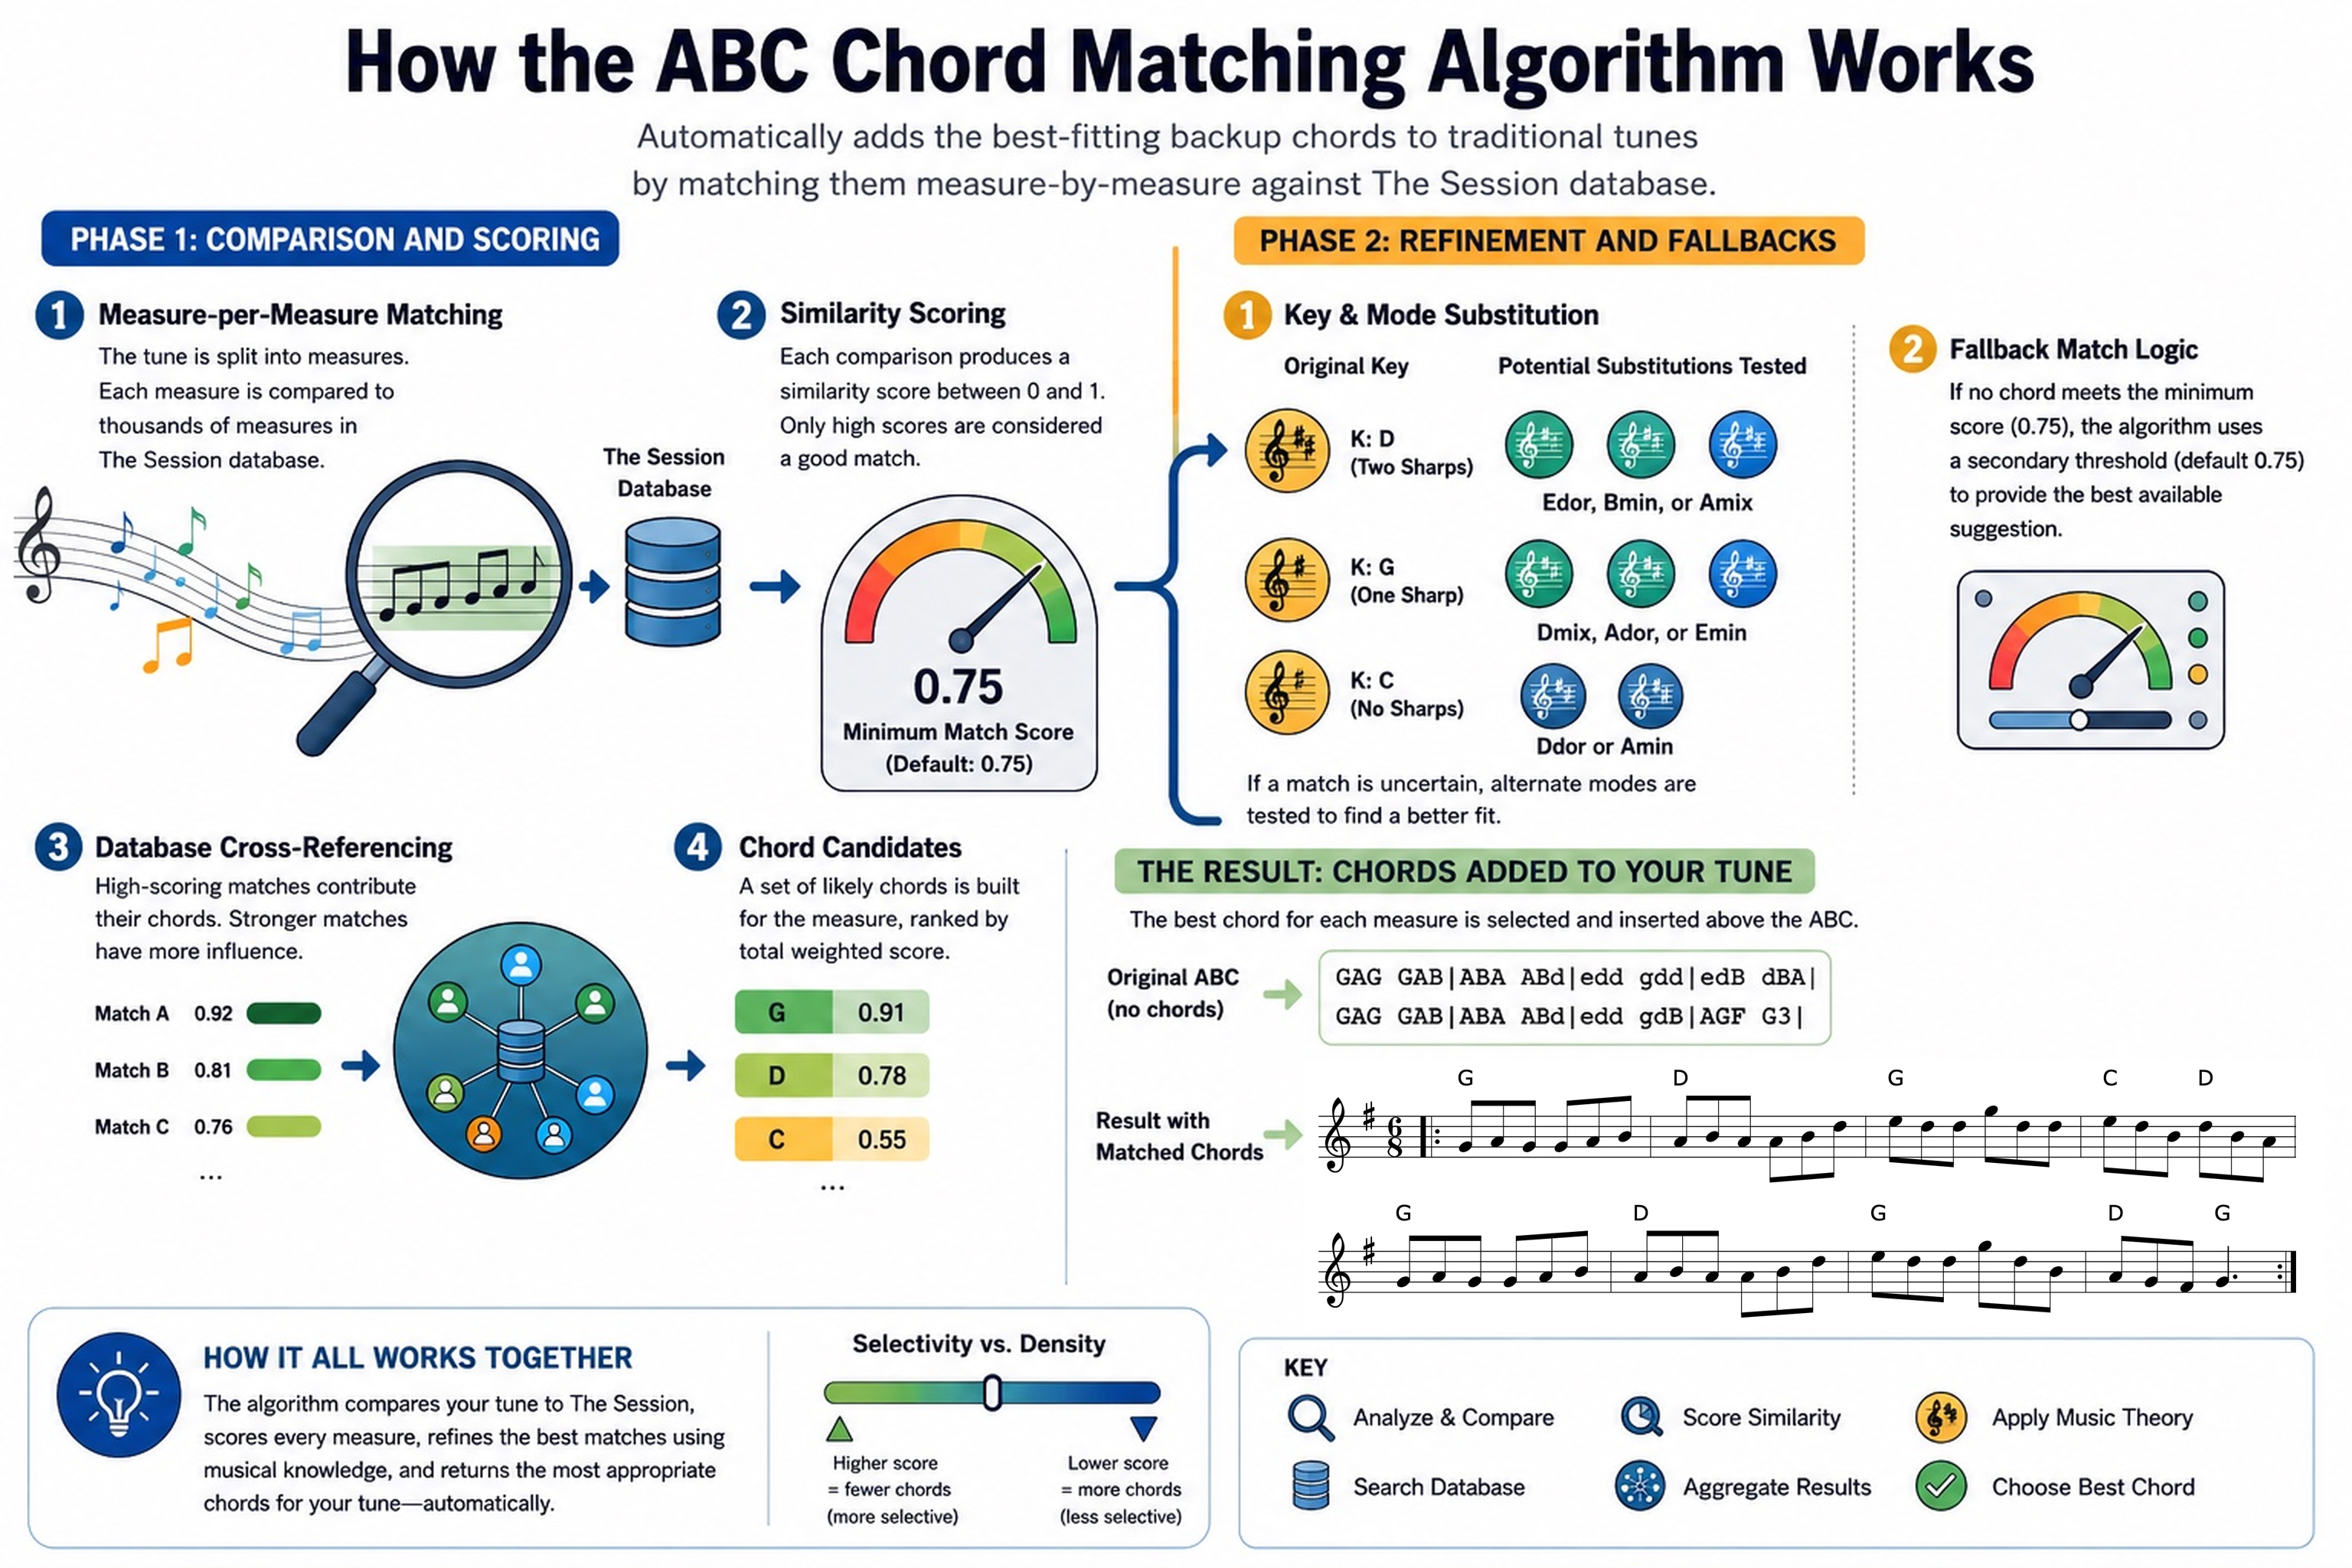
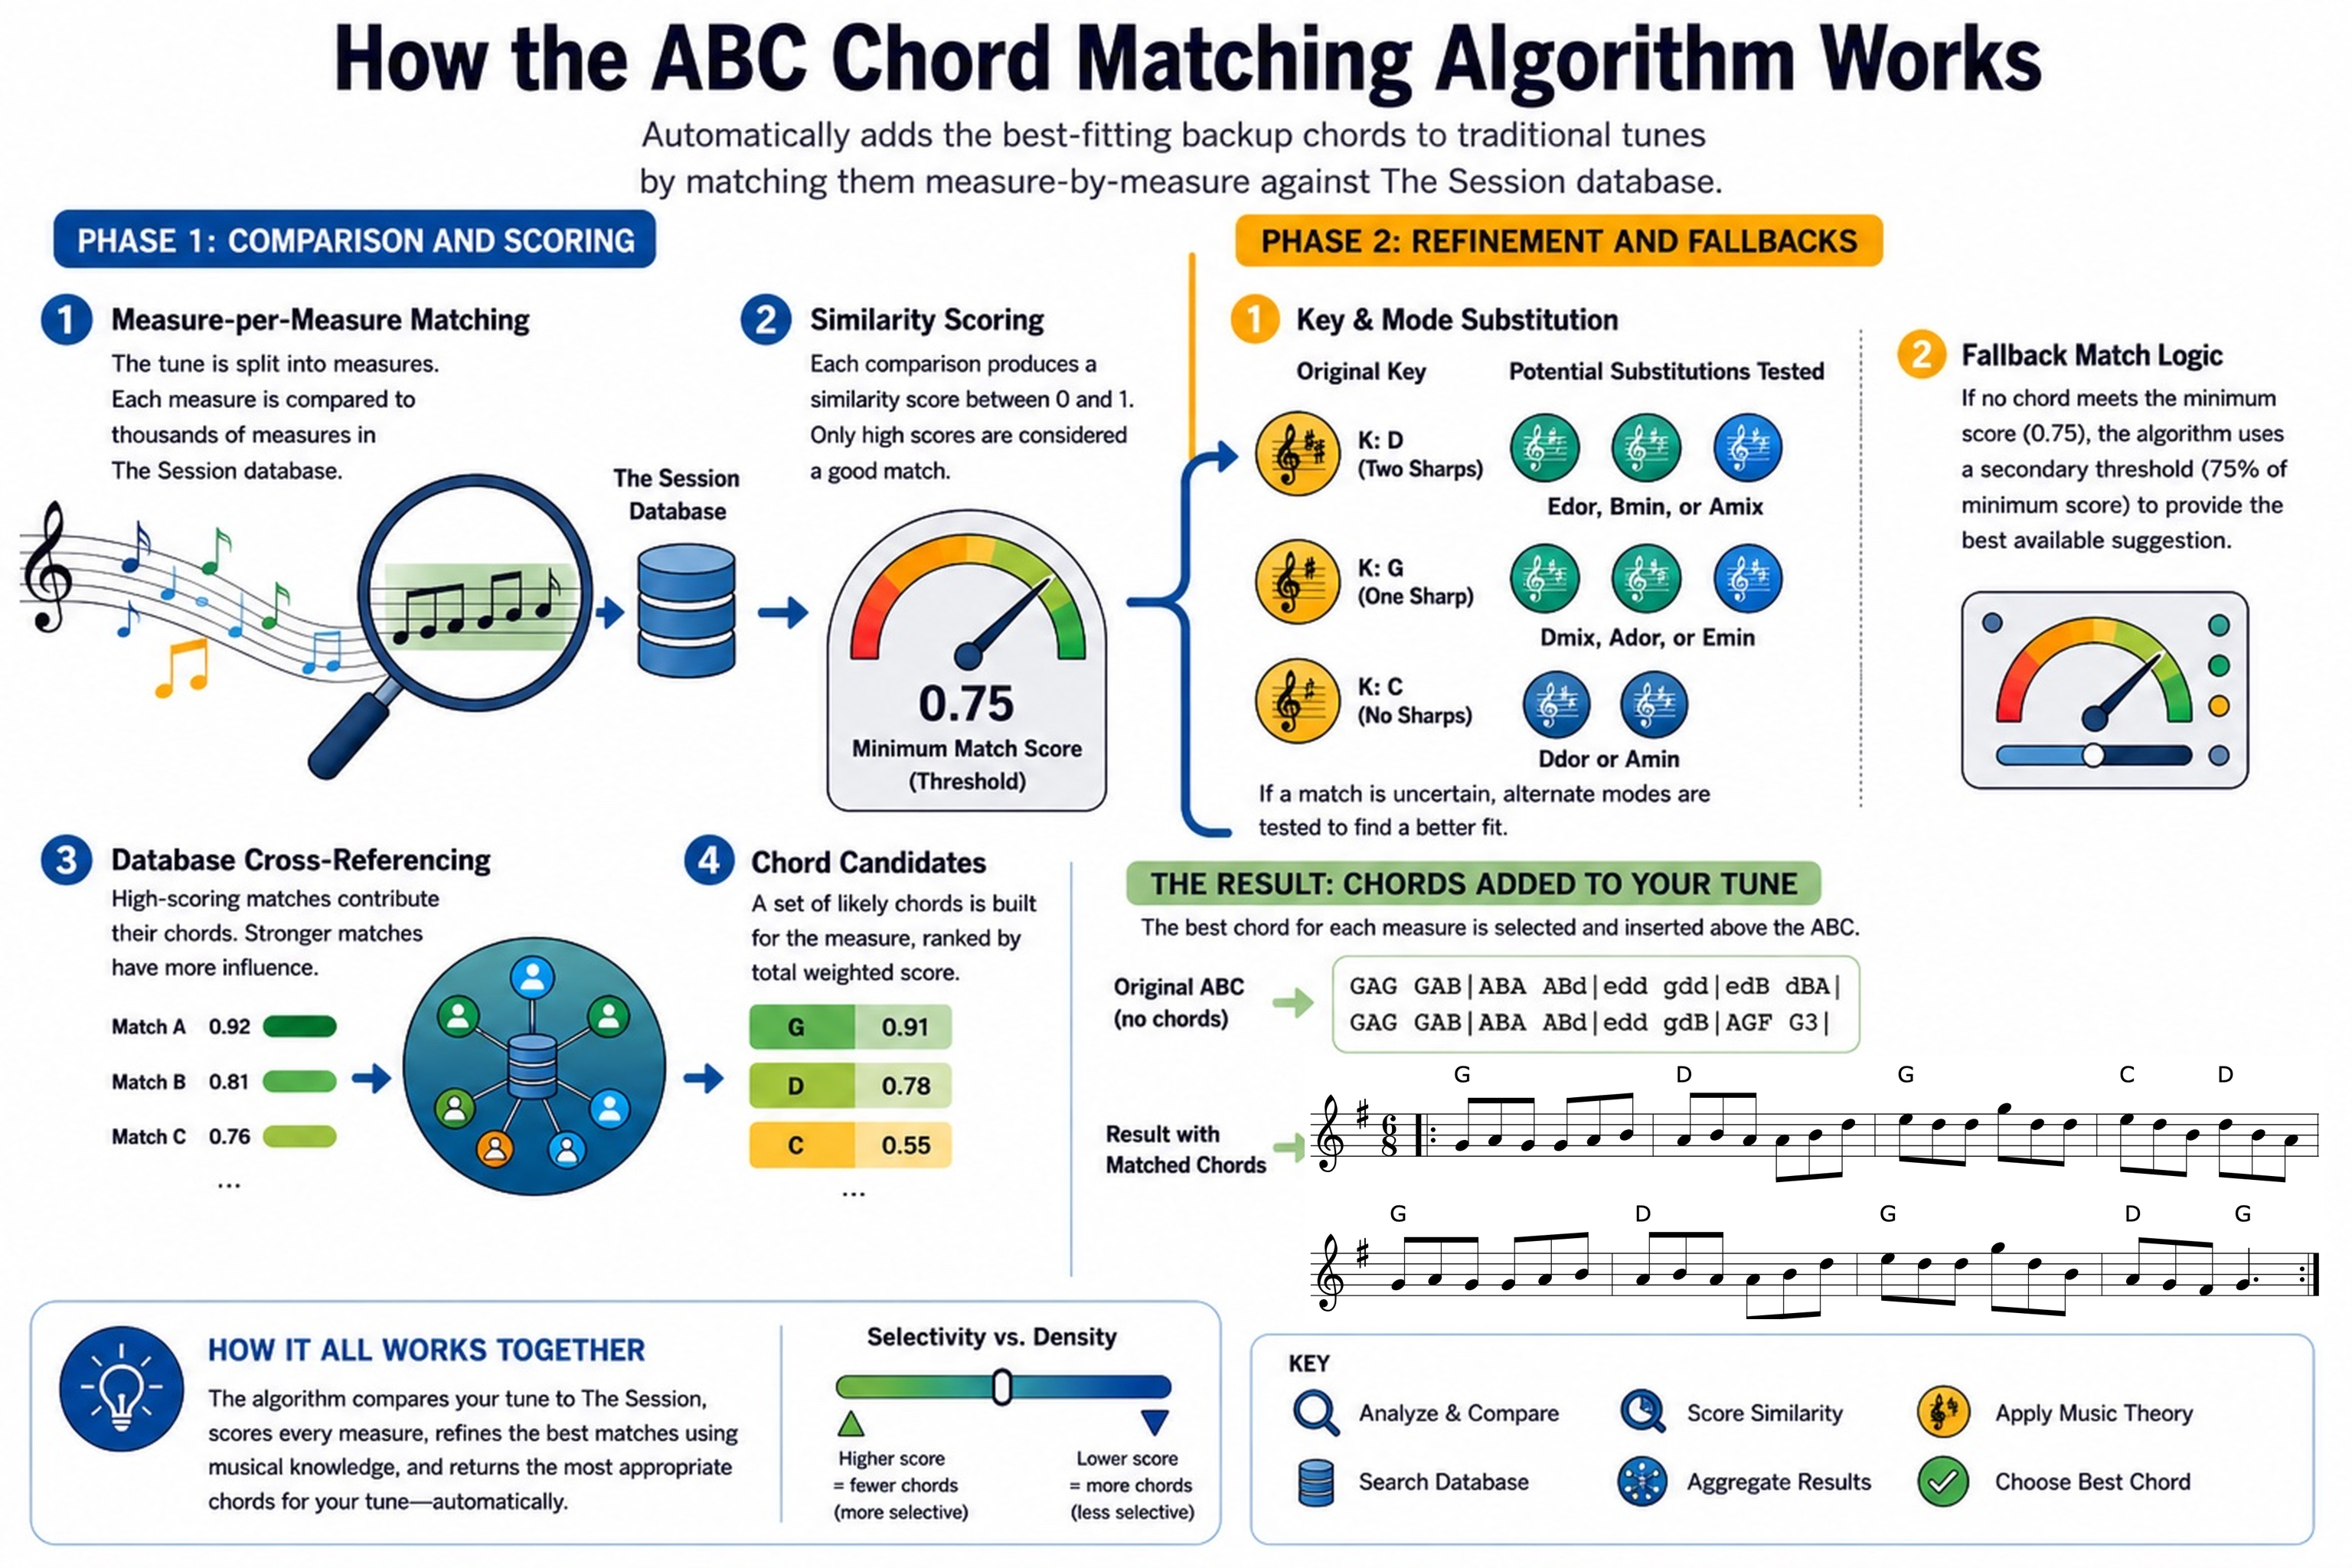
Added og:image

Changed region(s): [[0.0, 0.0, 1.0, 1.0]]

diff --git a/tools/musicxml-to-abc-optimizer.html b/tools/musicxml-to-abc-optimizer.html
@@ -9,7 +9,7 @@
   <meta property="og:description" content="MusicXML to ABC Optimizer" />
   <meta property="og:site_name" content="MusicXML to ABC Optimizer" />
   <meta property="og:url" content="https://michaeleskin.com/tools/musicxml-to-abc-optimizer.html" />
-  <meta property="og:image" content="https://michaeleskin.com/abctools/img/abc-icon.png" />
+  <meta property="og:image" content="https://michaeleskin.com/tools/img/musicxml-to-abc-optimizer-og-1.jpg" />
   <meta name="msapplication-TileColor" content="#ffffff" />
   <meta name="msapplication-TileImage" content="https://michaeleskin.com/abctools/img/abc-ms-icon-144x144.png" />
   <link rel="apple-touch-icon" sizes="57x57" href="https://michaeleskin.com/abctools/img/abc-apple-icon-57x57.png" />
@@ -294,6 +294,24 @@
       }
 
       #closeReportModal {
+        flex: 0 0 auto;
+        margin-top: 14px;
+      }
+
+      #modal .modalBox {
+        display: flex;
+        flex-direction: column;
+        overflow: hidden;
+      }
+
+      #instructionsContent {
+        flex: 1 1 auto;
+        min-height: 0;
+        overflow: auto;
+        padding-right: 4px;
+      }
+
+      #closeModal {
         flex: 0 0 auto;
         margin-top: 14px;
       }
@@ -812,8 +830,9 @@
 </div>
 <div class="footer"><button id="instructionsButton">Instructions</button><button id="openToolsButton">Open ABC Transcription Tools</button></div>
 <div id="modal" class="modal"><div class="modalBox">
-  <h2>MusicXML to ABC Optimizer</h2>
-  <ul>
+  <div id="instructionsContent">
+    <h2 style="text-align: center;">MusicXML to ABC Optimizer</h2>
+    <ul>
     <li>Paste ABC notation into the input area, open one or more <b>.abc</b> or <b>.txt</b> files, or send tunes directly from the <b>ABC Transcription Tools</b>.</li>
     <li>Select any of the four optimization options. The <b>Process ABC</b> button is available only when the input contains an <b>X:</b> tune and at least one option is selected.</li>
     <li><b>Shorten excessively long sustained notes</b> removes only ties crossing measure lines when retaining the next tied segment would exceed the selected duration. Each tune uses its own <b>Q:</b>, <b>M:</b>, and <b>L:</b> values. When a tie is removed, any accidental required to preserve the sustained pitch is written explicitly on the newly re-attacked note.</li>
@@ -827,7 +846,8 @@
     <li>Operations run in this order: long-note shortening, percussion remapping, measure reformatting, and soundfont injection.</li>
     <li>After processing, the status area shows aggregate counts. Use <b>Show Processing Details Report</b> to see the tune index, title, and tune-by-tune counts.</li>
     <li>Use the output buttons to copy, save, or send the processed ABC directly to the ABC Transcription Tools.</li>
-  </ul>
+    </ul>
+  </div>
   <button id="closeModal">Close</button>
 </div></div>
 <div id="reportModal" class="modal"><div class="modalBox">
@@ -1668,8 +1688,6 @@ function convertABC(text) {
   return {text:converted,stats:overall};
 }
 
-
-
 const SOUNDFONT_OPTIONS = [
   {id:"fluid",name:"Fluid"},{id:"musyng",name:"Musyng Kite"},
   {id:"fatboy",name:"FatBoy"},{id:"canvas",name:"Canvas"},
@@ -1832,9 +1850,6 @@ function reformatABCMeasures(text, measuresPerStaff) {
   });
   return {text:output.join(''),tunesReformatted};
 }
-
-
-
 
 const inputEl = document.getElementById('input');
 const outputEl = document.getElementById('output');